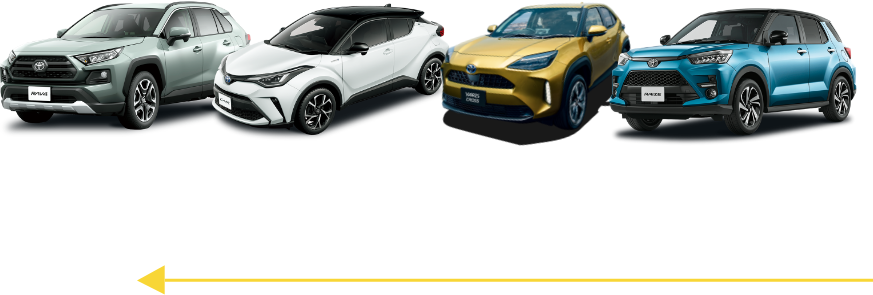
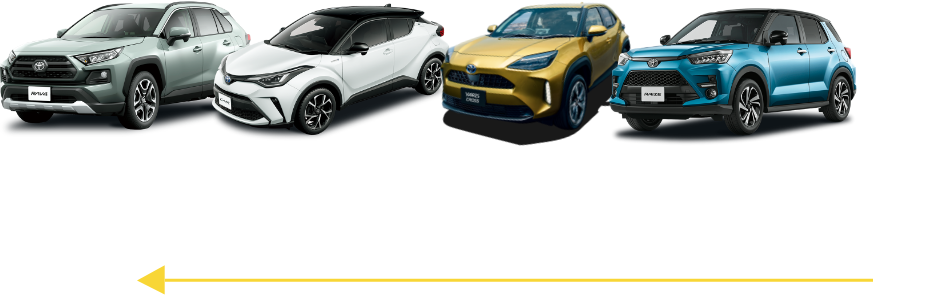
画像 retina追加

Changed region(s): [[0.0, 0.0, 0.9897, 0.4881], [0.1237, 0.8847, 0.2165, 1.0], [0.9278, 0.9153, 1.0, 0.9763]]

diff --git a/src/sass/module/_spec.scss b/src/sass/module/_spec.scss
@@ -39,6 +39,7 @@
             }
             .p-lpyaris__specBlock__img {
                 @include pc-layout {
+                    width: 700px;
                     left: -21%;
                 }
             }
@@ -60,6 +61,7 @@
                 @include pc-layout {
                     margin-top: -60px;
                     left: 50%;
+                    width: 598px;
                 }
             }
         }
@@ -79,6 +81,9 @@
             }
             .p-lpyaris__specBlock__img {
                 left: -9%;
+                @include pc-layout {
+                    width: 532px;
+                }
             }
         }
     }

diff --git a/src/js/modules/imagesloadlistener.js b/src/js/modules/imagesloadlistener.js
@@ -1,4 +1,4 @@
-
+// 画像の読み込み
 var imagesLoadListener = (function() {
     var imageCollector = function(expectedCount, completeFn) {
         var receivedCount = 0;
@@ -27,3 +27,5 @@ var imagesLoadListener = (function() {
     };
     return imagesLoadListener;
 })();
+
+/lp/yariscross/assets/img/spec/img_spec02@2x.png

diff --git a/src/js/script.js b/src/js/script.js
@@ -2,7 +2,7 @@ import "../sass/style.scss";
 
 import additionCalculator from './modules/addition-calculator';
 // 画像の読み込み
-// import imagesLoadListener from './modules/imagesLoadListener';
+import imagesLoadListener from './modules/imagesLoadListener';
 import scrollFadeIn from './modules/scrollfadein.js';
 
 
